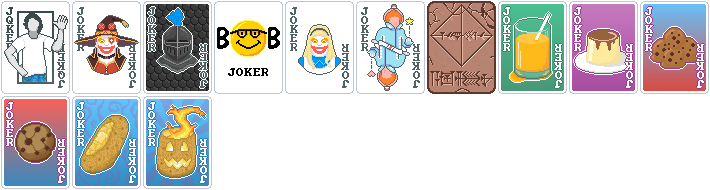
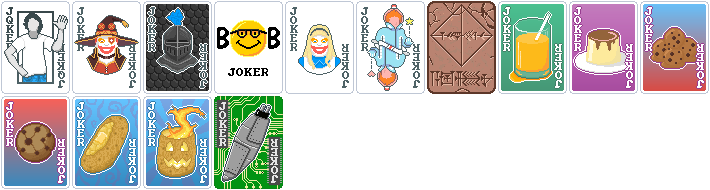
-Added Digi-Carrot -Fixed black text color -Changed some style

Changed region(s): [[0.2789, 0.5, 0.4028, 1.0]]

diff --git a/README.md b/README.md
@@ -20,6 +20,7 @@ Because this mod contains bespoke code, you may encounter compatibility issues w
 #### Known compatible mods:
 * [Banner](https://github.com/SylviBlossom/Banner)
 * [Too Many Jokers](https://github.com/cg-223/toomanyjokers)
+* [Talisman](https://github.com/SpectralPack/Talisman)
 #### Known incompatible mods:
 * [DebugPlus](https://github.com/WilsontheWolf/DebugPlus)
   * Copied planets emplace in the consumable slots, spawn the planets instead. 
